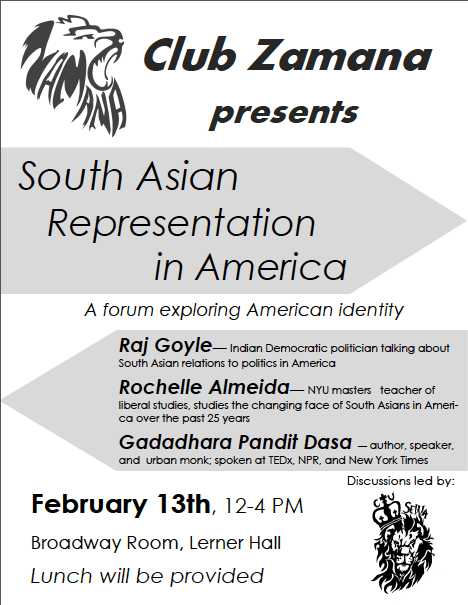
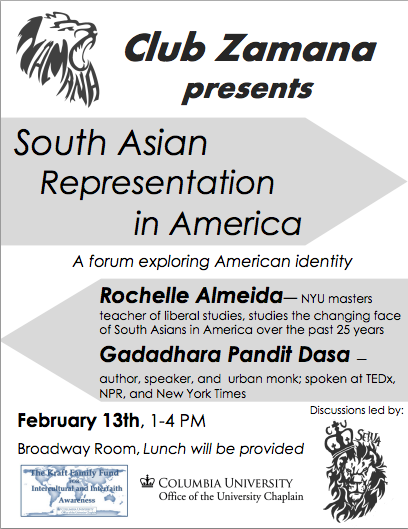
political update

diff --git a/political.html b/political.html
@@ -84,20 +84,14 @@
         <br>
         <br>
         
-        <h5>
-        Club Zamana is proud to present its first Political Forum. The event, taking place on February 13, 2015, will feature 
+        Club Zamana is proud to present its first Political Forum. The event, taking place on February 13, 2015 at 1pm, will feature 
         a mix of talks, discussion forums, and other events on the topic of South Asians in America. 
         
         <br>
         <br>
         
         We are excited to announce the following speakers:
-        
-        <br>
-        <br>
-        
-        <b>Raj Goyle</b> - An Indian Democratic Politician talking about South Asian Relations to Politics in America
-        
+ 
         <br>
         <br>
         
@@ -111,7 +105,7 @@
 		<br>
 		<br>
 		
-		Our forum will also feature discussion lead by <a href='/intergroup/sewa'>Sewa</a> on South Asian Interfaith Issues in America 
+		Our forum will also feature discussion lead by Sewa on South Asian Interfaith Issues in America 
 		
 		<br>
 		<br>
